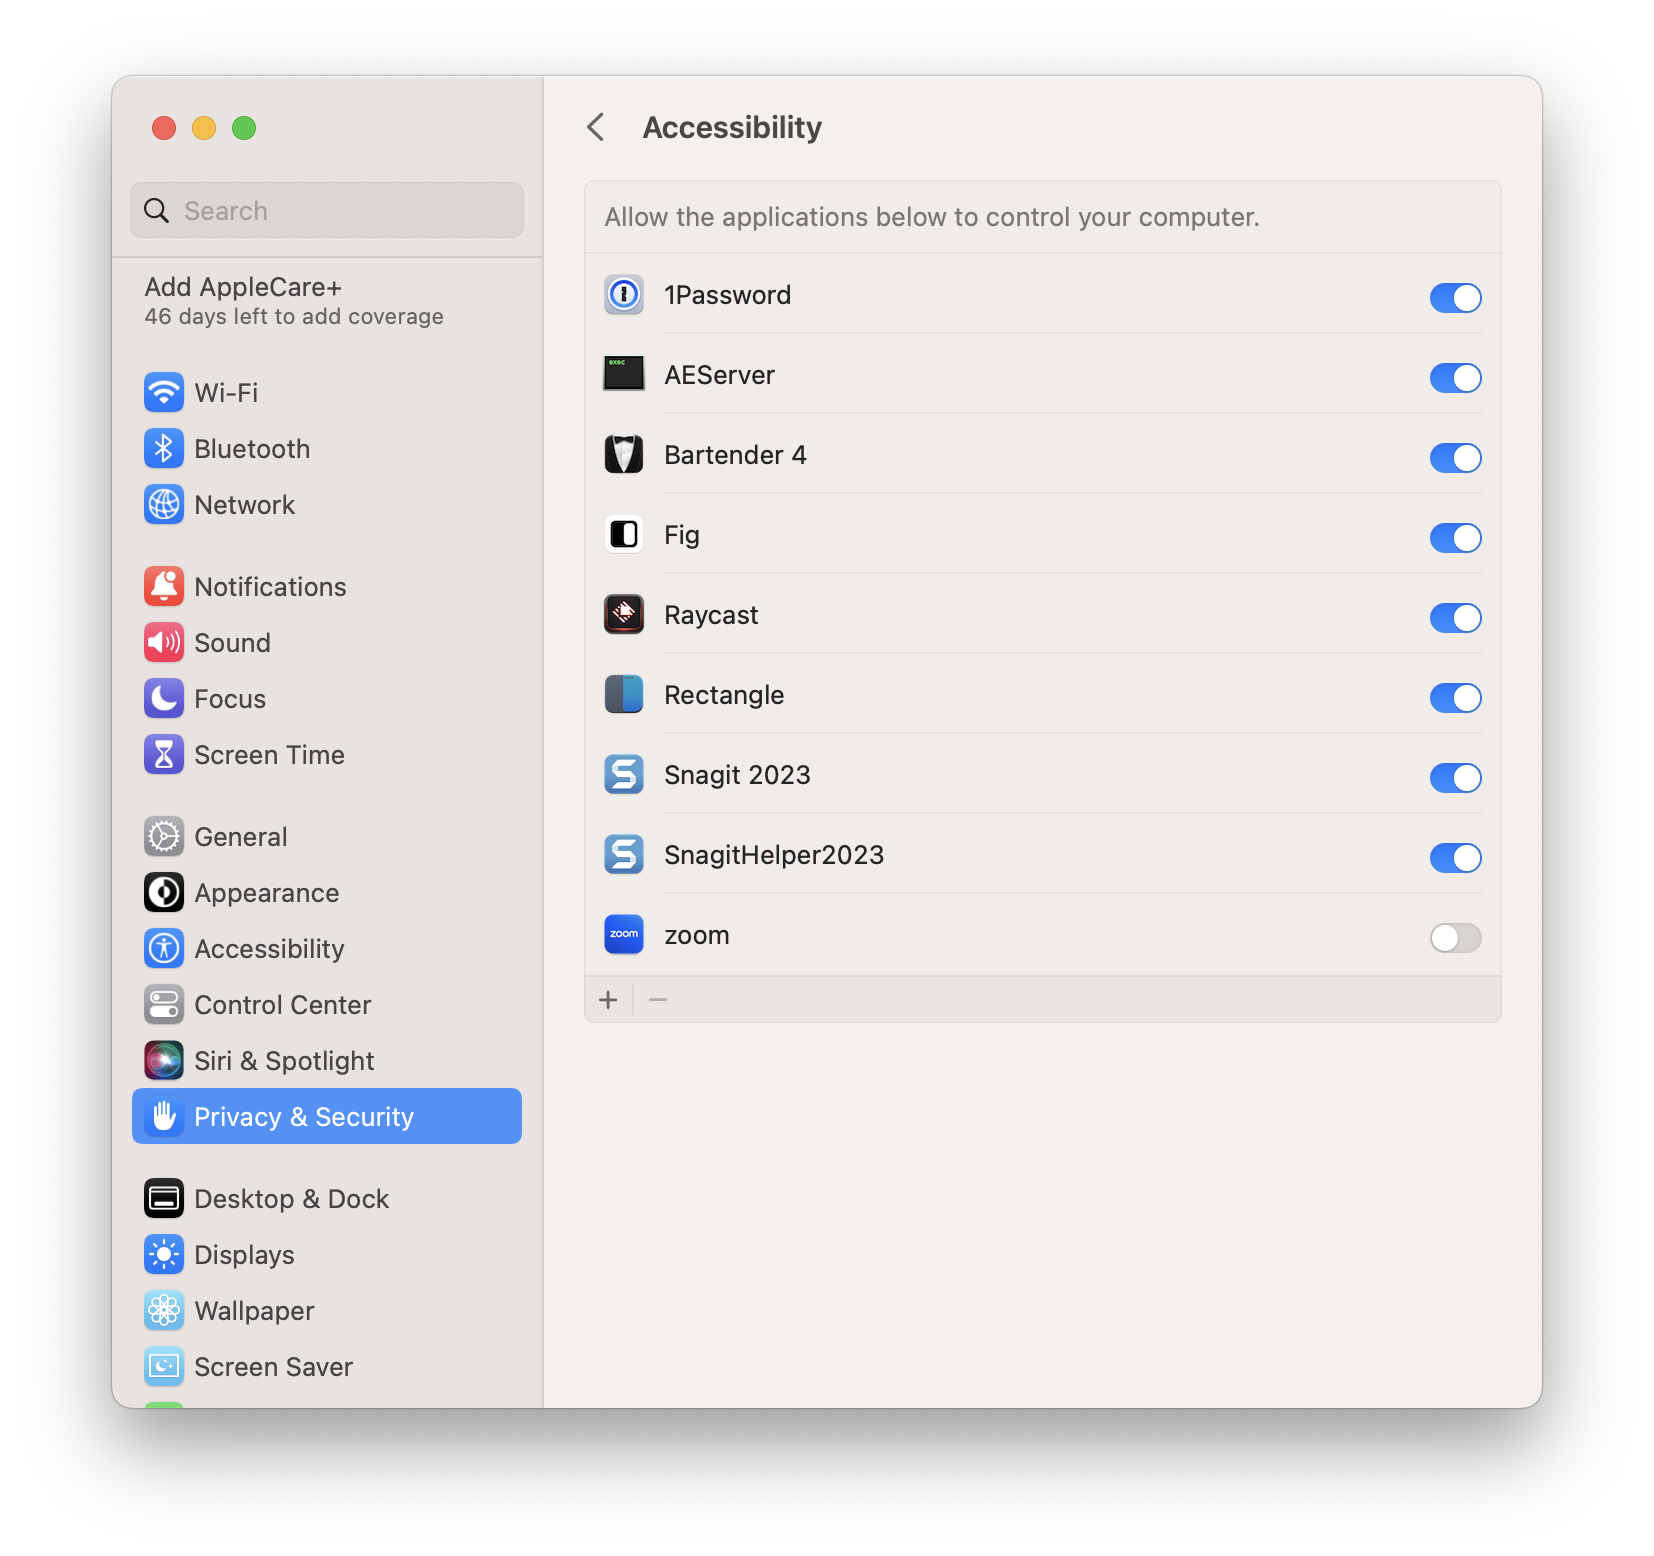
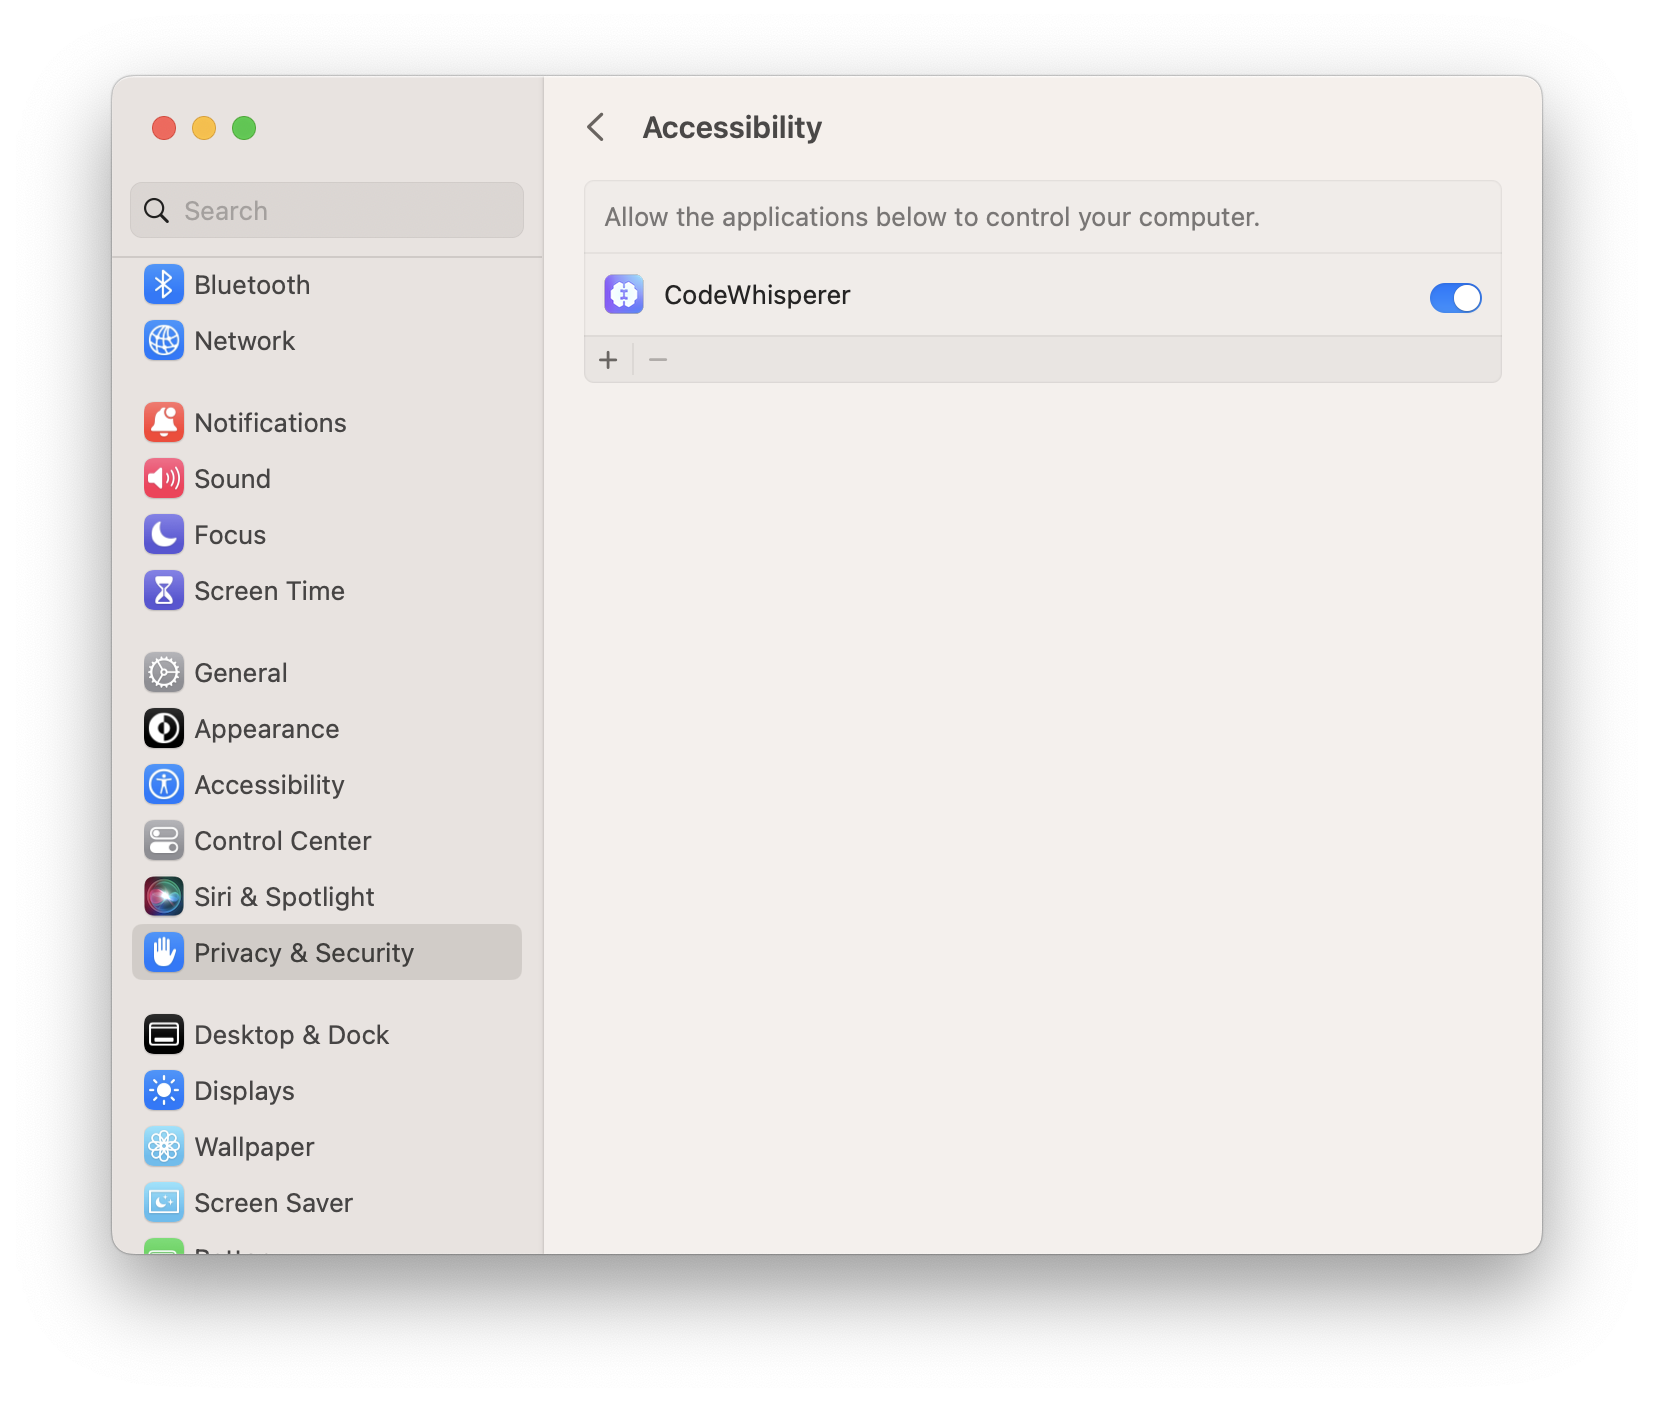
fixes accessibility issues
cr: https://code.amazon.com/reviews/CR-105697841

diff --git a/apps/dashboard/src/pages/onboarding.tsx b/apps/dashboard/src/pages/onboarding.tsx
@@ -1,124 +1,22 @@
 import { cn } from "@/lib/utils";
-import { useCallback, useState } from "react";
+import { useState } from "react";
 import { Link } from "react-router-dom";
-import { Process } from "@withfig/api-bindings";
 import autocompleteDemo from "@assets/images/autocomplete_demo.gif";
 import aiDemo from "@assets/images/ai_demo.gif";
-import { Button } from "@/components/ui/button";
-import { Sparkle } from "@/components/svg/icons";
-// import LoginModal from "@/components/installs/modal/login";
-// import ModalContext from "@/context/modal";
-
-// const tasks = [
-//   {
-//     title: "Configure your system",
-//     description:
-//       "Set up accessibility, input methods, and log in with your Builder ID.",
-//     check: () => true,
-//   },
-//   {
-//     title: "Choose a theme",
-//     description: "Set the CodeWhisperer theme to fit your terminal",
-//     check: () => false,
-//   },
-//   {
-//     title: "Customize tab behavior",
-//     description: "",
-//     check: () => true,
-//   },
-//   {
-//     title: "Run `cw ai`",
-//     description: "Convert natural language into Bash commands.",
-//     check: () => false,
-//   },
-// ];
-
-// type Task = {
-//   title: string;
-//   description?: string;
-//   check?: () => boolean;
-// };
-
-// function Task({ task }: { task: Task; updateProgress: () => void }) {
-//   // const taskComplete = task.check() === true
-
-//   // useEffect(() => {
-//   // updateProgress()
-//   // }, [taskComplete, updateProgress])
-
-//   return (
-//     <div className="flex p-4 pl-0">
-//       {/* <div className="w-12 flex-none flex flex-col"></div> */}
-//       <div className="flex flex-col">
-//         <h2 className="font-bold">{task.title}</h2>
-//         {task.description && <p>{task.description}</p>}
-//       </div>
-//     </div>
-//   );
-// }
 
 export default function Page() {
-  // const { setModal } = useContext(ModalContext);
-  // const [tasksCompleted, setTasksCompleted] = useState(1);
-  // const [completionPercentage, setCompletionPercentage] = useState(tasksCompleted / tasks.length * 100);
-
-  // useEffect(() => {
-  //   setCompletionPercentage(tasksCompleted / tasks.length * 100)
-  // }, [tasksCompleted])
-
-  // const { setModal } = useContext(ModalContext);
   const [activeTab, setActiveTab] = useState(0);
-
-  const showTerminal = useCallback(() => {
-    const script = `
-    if [ -d "/Applications/iTerm.app" ]; then
-        if ps aux | grep -i "[i]Term" > /dev/null; then
-            osascript -e 'tell application "iTerm" to create window with default profile'
-        else
-            open -a "iTerm"
-        fi
-    elif [ -d "/Applications/Hyper.app" ]; then
-        open -a "Hyper"
-        sleep 1.5
-        osascript -e 'tell application "System Events" to keystroke "n" using command down'
-    else
-        if ps aux | grep -i "Terminal.app" > /dev/null; then
-            osascript -e 'tell application "Terminal" to do script ""'
-        else
-            open -a "Terminal"
-        fi
-    fi
-    `;
-
-    Process.run({
-      executable: "bash",
-      args: ["-c", script],
-      environment: { PROCESS_LAUNCHED_BY_FIG: undefined },
-    })
-      .then(console.log)
-      .catch(console.error);
-  }, []);
 
   return (
     <div className="flex flex-col items-start gap-4">
       <div className="flex flex-col ">
         <h1 className="text-2xl font-bold select-none">Getting started</h1>
       </div>
-      <div className="flex flex-col gap-2 w-full border border-zinc-200 rounded-lg p-4 mb-4">
-        <div className="text-base flex gap-2 items-center h-12">
-          <Button className="peer group h-auto text-sm font-medium bg-gradient-to-r from-purple-600 to-indigo-400 p-[2px] pb-[6px] hover:pb-[2px] transition-all rounded-lg -translate-y-1 hover:translate-y-0" variant={'ghost'} onClick={showTerminal}>
-            <div className="p-2 px-3 bg-white rounded-md group-hover:bg-white/90 transition-all flex gap-1 items-center text-purple-600 hover:text-purple-600">
-            <Sparkle />
-            <span className="bg-gradient-to-r from-purple-600 to-indigo-400 text-transparent bg-clip-text">
-          Launch terminal
-          </span>
-          </div>
-          </Button>
-          <h2 className="text-sm font-medium bg-gradient-to-r from-indigo-500 to-purple-400 text-transparent bg-clip-text">to start using autocomplete!</h2>
-        </div>
+      <div className="flex flex-col gap-2 w-full border bg-slate-50 border-slate-200 rounded-lg p-4 mb-4">
+      <h2 className="font-bold font-ember tracking-tight text-lg">Launch your terminal to start using autocomplete!</h2>
+
         <ol className="flex flex-col text-zinc-600">
           <li>
-            {/* <div className="w-12 flex-none flex flex-col"></div> */}
             <span className="text-sm flex items-baseline gap-1">
               <span className="font-semibold">Not working?</span>
               <span>Check out</span>
@@ -131,14 +29,12 @@ export default function Page() {
             </span>
           </li>
           <li>
-            {/* <div className="w-12 flex-none flex flex-col"></div> */}
             <span className="text-sm">
               <span className="font-semibold">Want to customize settings?</span> Use the tabs in the sidebar.
             </span>
           </li>
         </ol>
       </div>
-      {/* <Button onClick={() => setModal(<LoginModal next={() => {}}/>)}>Reset onboarding</Button> */}
       <div className="place-self-center border rounded-lg border-neutral-800 w-full max-w-2xl scale-75 relative -top-16">
         <div className="w-full h-auto rounded-[5px] flex flex-col bg-[#161A1D]">
           <div className="flex flex-row gap-1.5 p-2 bg-neutral-700 rounded-t">

diff --git a/apps/dashboard/src/components/installs/modal/install.tsx b/apps/dashboard/src/components/installs/modal/install.tsx
@@ -30,7 +30,7 @@ export default function InstallModal({
   useEffect(() => {
     if (timeElapsed) return;
 
-    const timer = setTimeout(() => setTimeElapsed(true), 5000);
+    const timer = setTimeout(() => setTimeElapsed(true), 10000);
     return () => clearTimeout(timer);
   }, [timeElapsed]);
 
@@ -55,16 +55,9 @@ export default function InstallModal({
 
   return (
     <div className="flex flex-col gap-4">
-      <div className="flex justify-between items-baseline">
         <h2 className="font-medium text-lg select-none leading-none">
           {check.title}
         </h2>
-        {timeElapsed && (
-          <button className={"text-xs text-black/50"} onClick={skip}>
-            skip
-          </button>
-        )}
-      </div>
       <div className="flex flex-col gap-2 text-base font-light text-zinc-500 select-none items-start leading-tight">
         {check.description.map((d, i) => (
           <p key={i} className="text-sm">
@@ -79,9 +72,14 @@ export default function InstallModal({
         )}
       </div>
       <div className="flex flex-col gap-1">
-        <Button onClick={() => handleInstall(check.installKey)}>
-          {checking ? "Continue" : check.action}
+        <Button disabled={checking} onClick={() => handleInstall(check.installKey)}>
+          {checking ? 'Waiting for permission...' : check.action}
         </Button>
+        {timeElapsed && (
+          <button className={"text-xs text-black/50 self-center"} onClick={skip}>
+            skip
+          </button>
+        )}
         {check.explainer && (
           <Collapsible open={explainerOpen} onOpenChange={setExplainerOpen}>
             <CollapsibleTrigger asChild className="text-zinc-400">

diff --git a/apps/dashboard/src/data/install.ts b/apps/dashboard/src/data/install.ts
@@ -62,9 +62,9 @@ const installChecks: InstallCheckWithInstallKey[] = [
   {
     id: "accessibility",
     installKey: "accessibility",
-    title: "Accessibility settings",
+    title: "Enable accessibility",
     description: [
-      "CodeWhisperer uses this permission to position the Autocomplete window and insert text on your behalf.",
+      "Grant accessibility permissions so CodeWhisperer can position the completion window and insert text on your behalf.",
       "If enabling it isn't working, try toggling it off and on again or restarting CodeWhisperer.",
     ],
     image: accessibility_fig,
